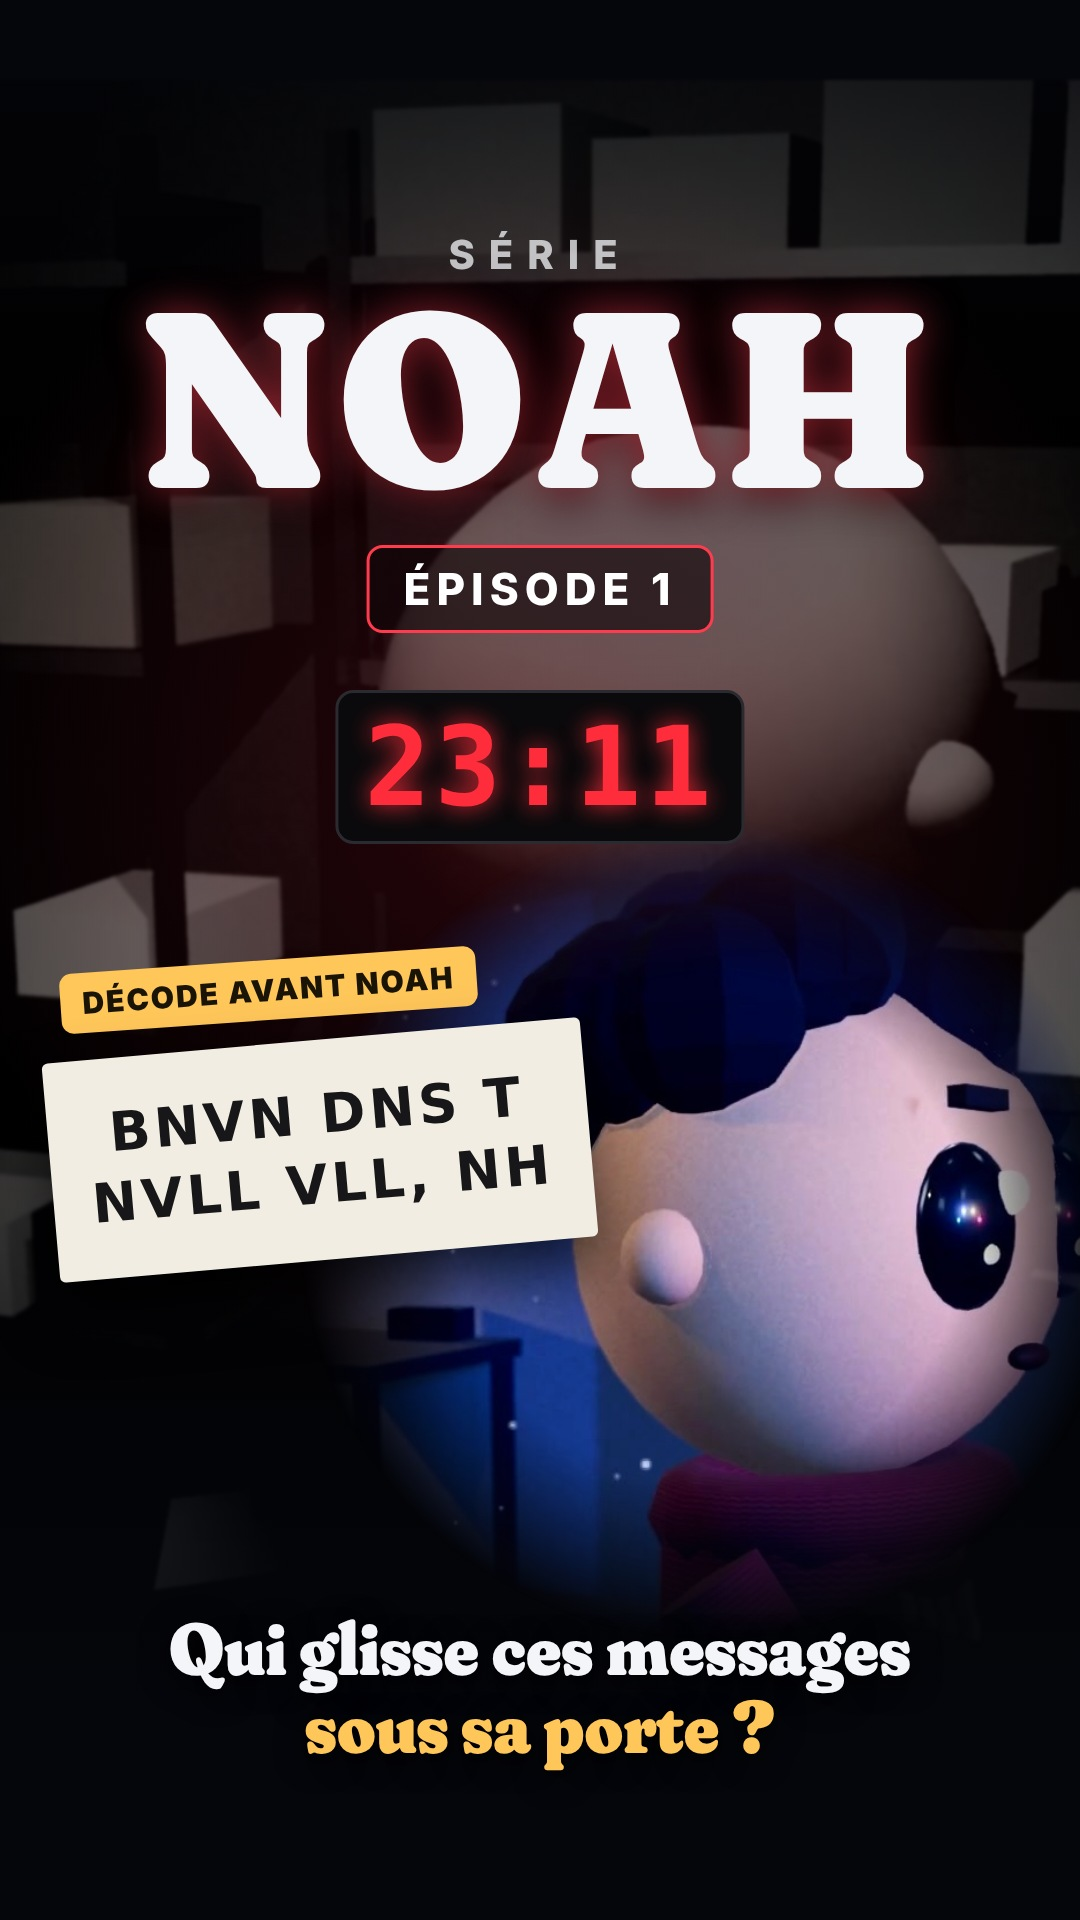
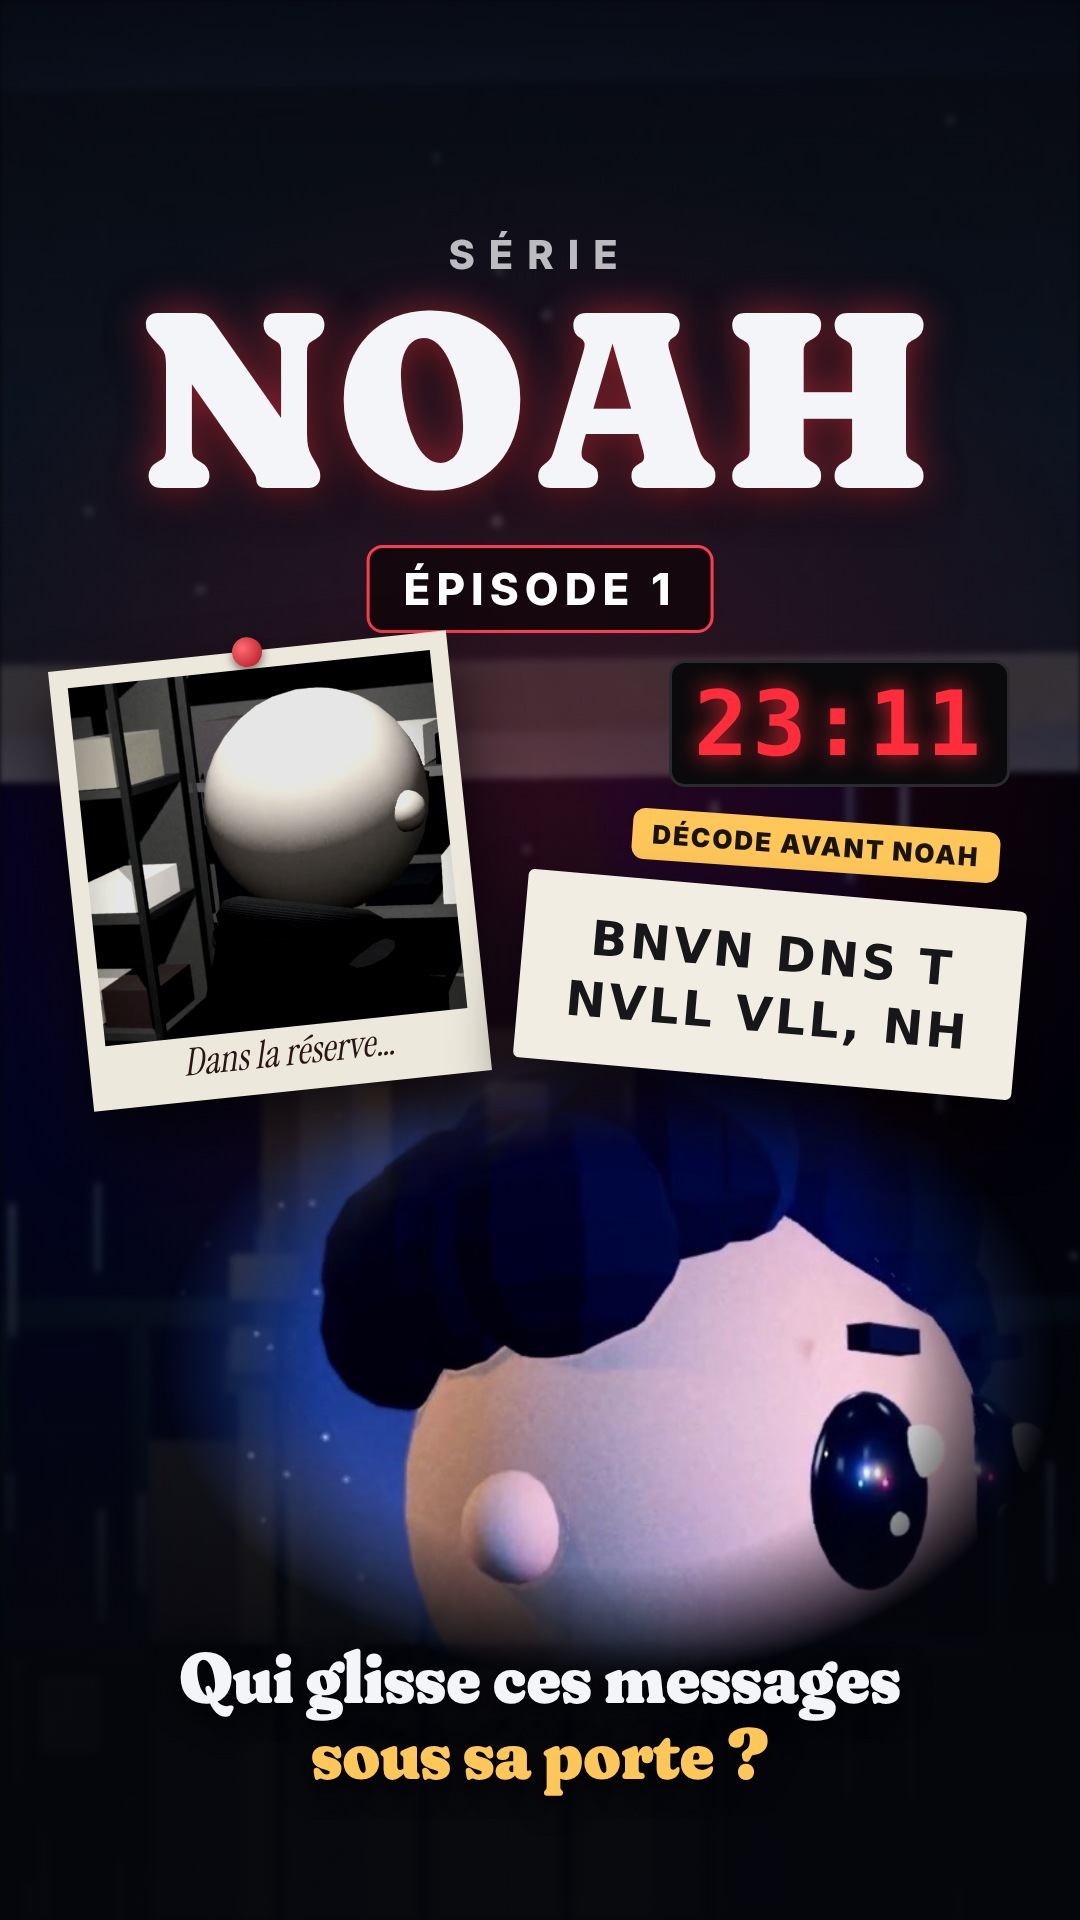
Noah cover: the reserve man as a pinned clue photo, Noah clear at the bottom
Claude-Session: https://claude.ai/code/session_01BuuGTWXm9AdYd59K8Jkeg5

diff --git a/reseaux/noah/work/miniature.html b/reseaux/noah/work/miniature.html
@@ -7,25 +7,29 @@
 html, body { width: 1080px; height: 1920px; overflow: hidden; background: #05060b; font-family: "Inter", sans-serif; color: #f4f5f8; }
 .abs { position: absolute; }
 /* the man in the reserve, huge and dark behind everything */
-#res { left: -120px; top: 80px; width: 1320px; height: 1610px; background: url(reserve.jpg) center 20% / cover;
-  filter: grayscale(.6) brightness(.42) contrast(1.25) blur(1.5px); }
+#res { inset: 0; background: url(nuit.jpg) center 30% / cover; filter: brightness(.35) saturate(.8) blur(2px); }
+/* the man from the reserve, as a pinned clue photo */
+#pol { left: 70px; top: 650px; width: 400px; padding: 18px 18px 64px; background: #ece8dc; transform: rotate(-6deg); box-shadow: 0 30px 60px rgba(0,0,0,.7); }
+#pol div { height: 360px; background: url(suspect.jpg) center 35% / cover; filter: grayscale(.5) contrast(1.15) brightness(.9); }
+#pol span { position: absolute; left: 0; right: 0; bottom: 14px; text-align: center; font-family: "Instrument Serif", serif; font-style: italic; font-size: 38px; color: #2a1414; }
+#pol i { position: absolute; left: 50%; top: -14px; width: 30px; height: 30px; margin-left: -15px; border-radius: 50%; background: radial-gradient(circle at 35% 35%, #ff6b74, #b0101c); box-shadow: 0 4px 8px rgba(0,0,0,.5); }
 #tint { inset: 0; background: radial-gradient(900px 900px at 50% 40%, rgba(160,20,40,.25), rgba(5,6,11,0) 70%),
   linear-gradient(rgba(5,6,11,.75) 0%, rgba(5,6,11,.05) 22%, rgba(5,6,11,.1) 55%, rgba(5,6,11,.95) 88%); }
 /* Noah, front, fading into the dark */
-#noah { left: 300px; top: 820px; width: 820px; height: 820px; background: url(noah.jpg) 35% center / cover;
-  -webkit-mask-image: radial-gradient(closest-side, #000 62%, transparent 100%); filter: brightness(1.05) saturate(1.1); }
+#noah { left: 160px; top: 1040px; width: 900px; height: 640px; background: url(noah.jpg) 70% 30% / cover;
+  -webkit-mask-image: radial-gradient(closest-side, #000 65%, transparent 100%); filter: brightness(1.1) saturate(1.1); }
 #top { left: 0; right: 0; top: 230px; text-align: center; }
 #top small { display: block; font-size: 40px; font-weight: 800; letter-spacing: 14px; color: rgba(244,245,248,.75); }
 #top b { display: block; font-family: "Fraunces", serif; font-weight: 900; font-size: 250px; line-height: .95; letter-spacing: 8px;
   text-shadow: 0 0 40px rgba(255,60,80,.55), 0 12px 40px rgba(0,0,0,.8); }
 #ep { left: 50%; top: 545px; transform: translateX(-50%); padding: 14px 34px; border: 3px solid #ff3b4d; border-radius: 16px; font-size: 44px; font-weight: 800; letter-spacing: 6px; color: #fff; background: rgba(10,0,4,.6); white-space: nowrap; }
-#clock { left: 50%; transform: translateX(-50%); top: 690px; padding: 10px 26px; border-radius: 18px; background: #0a0a0c; border: 3px solid #2a2a30;
-  font-family: "DejaVu Sans Mono", monospace; font-weight: 700; font-size: 110px; letter-spacing: 4px; color: #ff2d3c; text-shadow: 0 0 24px rgba(255,45,60,.9); }
+#clock { right: 70px; top: 660px; padding: 8px 22px; border-radius: 16px; background: #0a0a0c; border: 3px solid #2a2a30;
+  font-family: "DejaVu Sans Mono", monospace; font-weight: 700; font-size: 90px; letter-spacing: 4px; color: #ff2d3c; text-shadow: 0 0 24px rgba(255,45,60,.9); }
 /* the note slipped under the door */
-#tag { left: 60px; top: 960px; padding: 12px 22px; border-radius: 12px; background: #ffc65a; color: #1a1406; font-size: 30px; font-weight: 900; letter-spacing: 2px; transform: rotate(-4deg); }
-#note { left: 50px; top: 1040px; width: 540px; padding: 40px 24px; background: #f1ede2; color: #17171a; border-radius: 6px; transform: rotate(-5deg);
-  box-shadow: 0 30px 60px rgba(0,0,0,.7); font-family: "DejaVu Sans", sans-serif; font-weight: 700; font-size: 54px; line-height: 1.3; letter-spacing: 4px; white-space: nowrap; text-align: center; }
-#q { left: 0; right: 0; top: 1610px; text-align: center; font-family: "Fraunces", serif; font-weight: 900; font-size: 74px; line-height: 1.05; text-shadow: 0 6px 30px rgba(0,0,0,.9); }
+#tag { right: 80px; top: 820px; padding: 10px 20px; border-radius: 12px; background: #ffc65a; color: #1a1406; font-size: 26px; font-weight: 900; letter-spacing: 2px; transform: rotate(4deg); }
+#note { right: 60px; top: 890px; width: 500px; padding: 32px 20px; background: #f1ede2; color: #17171a; border-radius: 6px; transform: rotate(5deg);
+  box-shadow: 0 30px 60px rgba(0,0,0,.7); font-family: "DejaVu Sans", sans-serif; font-weight: 700; font-size: 48px; line-height: 1.3; letter-spacing: 3px; white-space: nowrap; text-align: center; }
+#q { left: 0; right: 0; top: 1640px; text-align: center; font-family: "Fraunces", serif; font-weight: 900; font-size: 72px; line-height: 1.05; text-shadow: 0 6px 30px rgba(0,0,0,.9); }
 #q span { color: #ffc65a; }
 </style></head><body>
 <div class="abs" id="res"></div>
@@ -34,6 +38,7 @@ html, body { width: 1080px; height: 1920px; overflow: hidden; background: #05060
 <div class="abs" id="top"><small>SÉRIE</small><b>NOAH</b></div>
 <div class="abs" id="ep">ÉPISODE 1</div>
 <div class="abs" id="clock">23:11</div>
+<div class="abs" id="pol"><i></i><div></div><span>Dans la réserve…</span></div>
 <div class="abs" id="tag">DÉCODE AVANT NOAH</div>
 <div class="abs" id="note">BNVN DNS T<br>NVLL VLL, NH</div>
 <div class="abs" id="q">Qui glisse ces messages<br><span>sous sa porte ?</span></div>
